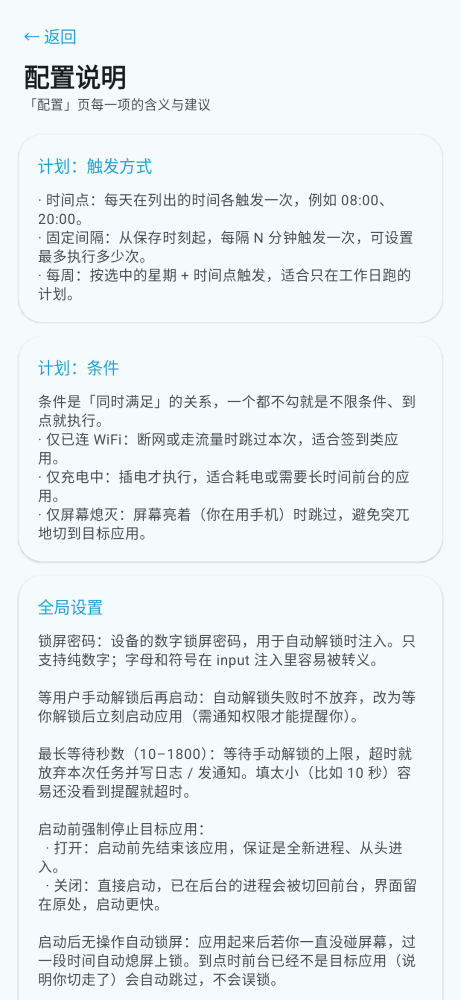
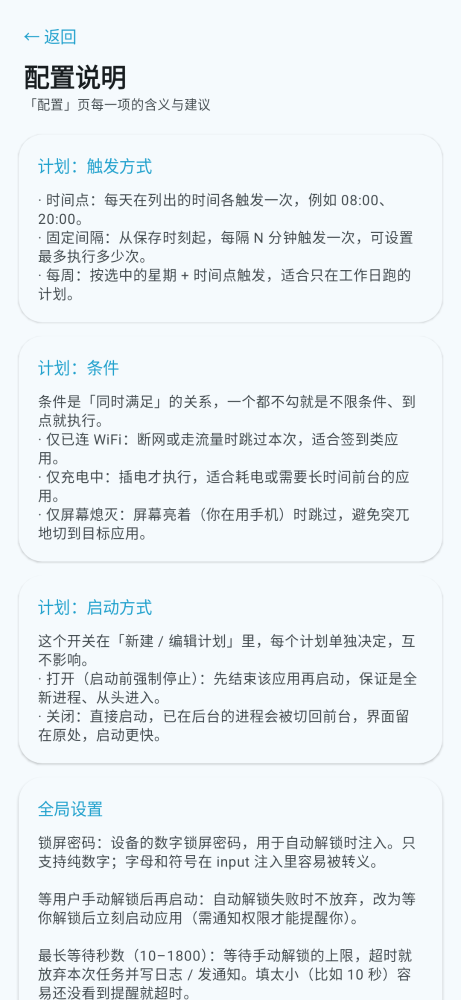
2.3.1: 启动方式下沉到每个计划（冷启动/直接启动按计划独立设置）

Changed region(s): [[0.0607, 0.589, 0.9111, 1.0]]

diff --git a/lsposed/app/src/main/java/com/appscheduler/lsposed/ui/HelpScreen.kt b/lsposed/app/src/main/java/com/appscheduler/lsposed/ui/HelpScreen.kt
@@ -35,8 +35,8 @@ enum class HelpPage(val title: String) {
 /** 关于页要展示的软件信息，由调用方填，方便截图测试注入固定值 */
 data class AboutInfo(
     val appName: String = "AppTimer",
-    val versionName: String = "2.3.0",
-    val versionCode: Long = 25,
+    val versionName: String = "2.3.1",
+    val versionCode: Long = 26,
     val packageName: String = "com.appscheduler.lsposed",
     val minSdk: Int = 26,
     val repoUrl: String = "https://github.com/alearners/magisk-app-scheduler",
@@ -197,14 +197,19 @@ private fun ConfigDocPage(onBack: () -> Unit, modifier: Modifier = Modifier) {
             )
         }
 
+        SectionCard("计划：启动方式") {
+            HelpParagraph(
+                "这个开关在「新建 / 编辑计划」里，每个计划单独决定，互不影响。\n" +
+                    "· 打开（启动前强制停止）：先结束该应用再启动，保证是全新进程、从头进入。\n" +
+                    "· 关闭：直接启动，已在后台的进程会被切回前台，界面留在原处，启动更快。"
+            )
+        }
+
         SectionCard("全局设置") {
             HelpParagraph(
                 "锁屏密码：设备的数字锁屏密码，用于自动解锁时注入。只支持纯数字；字母和符号在 input 注入里容易被转义。\n\n" +
                     "等用户手动解锁后再启动：自动解锁失败时不放弃，改为等你解锁后立刻启动应用（需通知权限才能提醒你）。\n\n" +
                     "最长等待秒数（10–1800）：等待手动解锁的上限，超时就放弃本次任务并写日志 / 发通知。填太小（比如 10 秒）容易还没看到提醒就超时。\n\n" +
-                    "启动前强制停止目标应用：\n" +
-                    "  · 打开：启动前先结束该应用，保证是全新进程、从头进入。\n" +
-                    "  · 关闭：直接启动，已在后台的进程会被切回前台，界面留在原处，启动更快。\n\n" +
                     "启动后无操作自动锁屏：应用起来后若你一直没碰屏幕，过一段时间自动熄屏上锁。到点时前台已经不是目标应用（说明你切走了）会自动跳过，不会误锁。\n\n" +
                     "无操作多少秒后锁屏（2–600）：上面的延时。太短来不及看清界面，建议 5–30 秒。\n\n" +
                     "用应用内部计时器计时：\n" +
@@ -263,8 +268,8 @@ private fun AboutPage(about: AboutInfo, onBack: () -> Unit, modifier: Modifier =
             HelpParagraph(
                 "按你设定的计划，在指定时间自动把设备唤到可用状态，然后启动指定的应用：\n" +
                     "· 唤醒屏幕、上滑、注入锁屏密码；密码方式失败时，可收起锁屏或等你手动解锁。\n" +
-                    "· 按你的设置启动：先强制停止再启动（冷启动，全新进程），或直接启动（切回已在后台的进程）。\n" +
-                    "· 支持多应用、多计划并发，每个计划可单独设置触发方式与条件。\n" +
+                    "· 每个计划自己决定启动方式：先强制停止再启动（冷启动，全新进程），或直接启动（切回已在后台的进程）。\n" +
+                    "· 支持多应用、多计划并发，每个计划可单独设置触发方式、条件与启动方式。\n" +
                     "· 可选：启动完成后若一直无操作，自动熄屏上锁，回到你原本的锁屏状态。\n\n" +
                     "收起锁屏由 LSPosed 钩子在 SystemUI 内完成，其余动作通过 root 执行。"
             )

diff --git a/lsposed/app/src/main/java/com/appscheduler/lsposed/ui/MainScreen.kt b/lsposed/app/src/main/java/com/appscheduler/lsposed/ui/MainScreen.kt
@@ -74,7 +74,6 @@ fun MainScreen() {
     var autoLock by remember { mutableStateOf(prefs.autoLock()) }
     var autoLockDelay by remember { mutableStateOf(prefs.autoLockDelay().toString()) }
     var timerMode by remember { mutableStateOf(prefs.timerMode()) }
-    var forceColdStart by remember { mutableStateOf(prefs.forceColdStart()) }
 
     var logTab by remember { mutableStateOf(LogTab.CURRENT) }
     var logCurrent by remember { mutableStateOf(LogStore.readCurrent(context)) }
@@ -117,7 +116,6 @@ fun MainScreen() {
         autoLock = prefs.autoLock()
         autoLockDelay = prefs.autoLockDelay().toString()
         timerMode = prefs.timerMode()
-        forceColdStart = prefs.forceColdStart()
     }
 
     // 进页面、切到日志/权限 tab 时刷新对应的实时内容
@@ -291,8 +289,7 @@ fun MainScreen() {
             manualWait.toIntOrNull() ?: Config.DEFAULT_MANUAL_WAIT,
             autoLock,
             autoLockDelay.toIntOrNull() ?: Config.DEFAULT_AUTO_LOCK_DELAY,
-            timerMode,
-            forceColdStart
+            timerMode
         )
         // 计时方式可能变了：切内部计时器要拉起常驻服务，切回闹钟要重排闹钟
         Scheduler.applyMode(context)
@@ -336,7 +333,9 @@ fun MainScreen() {
         if (runningId != null) return
         runningId = task.id
         scope.launch {
-            withContext(Dispatchers.IO) { RunCoordinator.runNow(context, task.packages) }
+            withContext(Dispatchers.IO) {
+                RunCoordinator.runNow(context, task.packages, task.forceColdStart)
+            }
             runningId = null
             reloadTasks()
             reloadLog()
@@ -461,8 +460,6 @@ fun MainScreen() {
                             onAutoLockDelayChange = { autoLockDelay = it },
                             timerMode = timerMode,
                             onTimerModeChange = { timerMode = it },
-                            forceColdStart = forceColdStart,
-                            onForceColdStartChange = { forceColdStart = it },
                             onSaveSettings = { saveSettings() },
                             onOpenLog = { tab = MainTab.LOG },
                             onOpenHelp = { tab = MainTab.HELP },

diff --git a/lsposed/app/src/main/java/com/appscheduler/lsposed/RunCoordinator.kt b/lsposed/app/src/main/java/com/appscheduler/lsposed/RunCoordinator.kt
@@ -114,7 +114,7 @@ object RunCoordinator {
             log.append("锁屏状态: false，直接启动\n")
         }
 
-        val ok = TaskRunner.launch(runnable, config.forceColdStart(), log)
+        val ok = TaskRunner.launch(runnable, task.forceColdStart, log)
         LogStore.append(context, log.toString())
         if (!ok) {
             TaskRunner.notifyFailure(context, log.toString())
@@ -168,7 +168,7 @@ object RunCoordinator {
                 applyResult(context, task, false)
                 continue
             }
-            val ok = TaskRunner.launch(runnable, Config.get(context).forceColdStart(), log)
+            val ok = TaskRunner.launch(runnable, task.forceColdStart, log)
             LogStore.append(context, log.toString())
             if (!ok) {
                 TaskRunner.notifyFailure(context, log.toString())
@@ -216,7 +216,7 @@ object RunCoordinator {
     }
 
     /** 界面上的「立即执行」：同步跑完并把结果写日志 */
-    fun runNow(context: Context, packages: List<String>): Boolean {
+    fun runNow(context: Context, packages: List<String>, forceColdStart: Boolean): Boolean {
         val log = StringBuilder()
         log.append("=== 手动执行 ${TaskRunner.stamp()} ===\n")
         if (!TaskRunner.suAvailable()) {
@@ -239,7 +239,7 @@ object RunCoordinator {
             TaskRunner.notifyFailure(context, log.toString())
             return false
         }
-        val ok = TaskRunner.launch(runnable, config.forceColdStart(), log)
+        val ok = TaskRunner.launch(runnable, forceColdStart, log)
         LogStore.append(context, log.toString())
         if (!ok) {
             TaskRunner.notifyFailure(context, log.toString())

diff --git a/lsposed/app/src/main/java/com/appscheduler/lsposed/model/TaskItem.kt b/lsposed/app/src/main/java/com/appscheduler/lsposed/model/TaskItem.kt
@@ -24,6 +24,8 @@ data class TaskItem(
     var onlyWifi: Boolean = false,
     var onlyScreenOff: Boolean = false,
     var enabled: Boolean = true,
+    /** 解锁后启动该计划里的应用时，是否先强制停止：true 冷启动，false 直接启动 / 切回已运行的进程 */
+    var forceColdStart: Boolean = true,
     var lastRunAt: Long = 0L,
     var lastResult: String = ""
 ) {
@@ -75,6 +77,7 @@ data class TaskItem(
         o.put("onlyWifi", onlyWifi)
         o.put("onlyScreenOff", onlyScreenOff)
         o.put("enabled", enabled)
+        o.put("forceColdStart", forceColdStart)
         o.put("lastRunAt", lastRunAt)
         o.put("lastResult", lastResult)
         return o
@@ -84,6 +87,9 @@ data class TaskItem(
         const val TYPE_TIMES = "TIMES"
         const val TYPE_WEEKLY = "WEEKLY"
         const val TYPE_INTERVAL = "INTERVAL"
+
+        /** 默认保持原有行为：先强制停止再启动，保证是冷启动 */
+        const val DEFAULT_FORCE_COLD_START = true
 
         fun weekdayName(day: Int): String = when (day) {
             1 -> "周一"
@@ -130,6 +136,8 @@ data class TaskItem(
             task.onlyWifi = o.optBoolean("onlyWifi", false)
             task.onlyScreenOff = o.optBoolean("onlyScreenOff", false)
             task.enabled = o.optBoolean("enabled", true)
+            // 旧配置没有这个字段：默认保持原有行为「先强制停止再启动」
+            task.forceColdStart = o.optBoolean("forceColdStart", DEFAULT_FORCE_COLD_START)
             task.lastRunAt = o.optLong("lastRunAt", 0L)
             task.lastResult = o.optString("lastResult", "")
             return task

diff --git a/lsposed/app/src/main/java/com/appscheduler/lsposed/ui/TaskListScreen.kt b/lsposed/app/src/main/java/com/appscheduler/lsposed/ui/TaskListScreen.kt
@@ -58,8 +58,6 @@ fun TaskListScreen(
     onAutoLockDelayChange: (String) -> Unit = {},
     timerMode: String = Config.TIMER_ALARM,
     onTimerModeChange: (String) -> Unit = {},
-    forceColdStart: Boolean = Config.DEFAULT_FORCE_COLD_START,
-    onForceColdStartChange: (Boolean) -> Unit = {},
     onSaveSettings: () -> Unit,
     onOpenLog: () -> Unit,
     onOpenHelp: () -> Unit = {},
@@ -162,19 +160,6 @@ fun TaskListScreen(
                     modifier = Modifier.fillMaxWidth()
                 )
             }
-
-            HorizontalDivider(color = MaterialTheme.colorScheme.outlineVariant)
-
-            SwitchRow(
-                title = "启动前强制停止目标应用",
-                description = if (forceColdStart) {
-                    "开启：先结束该应用再启动，保证是全新进程、从头进入"
-                } else {
-                    "关闭：直接启动，已在后台的进程会被切回前台，界面留在原处"
-                },
-                checked = forceColdStart,
-                onCheckedChange = onForceColdStartChange
-            )
 
             HorizontalDivider(color = MaterialTheme.colorScheme.outlineVariant)
 

diff --git a/lsposed/app/src/main/java/com/appscheduler/lsposed/ui/TaskEditScreen.kt b/lsposed/app/src/main/java/com/appscheduler/lsposed/ui/TaskEditScreen.kt
@@ -274,6 +274,20 @@ fun TaskEditScreen(
             )
         }
 
+        // ---- 启动方式：每个计划自己决定 ----
+        SectionCard("启动方式") {
+            SwitchRow(
+                title = "启动前强制停止目标应用",
+                description = if (task.forceColdStart) {
+                    "先结束该应用再启动，保证是全新进程、从头进入"
+                } else {
+                    "直接启动，已在后台的进程会被切回前台，界面留在原处"
+                },
+                checked = task.forceColdStart,
+                onCheckedChange = { onChange(task.copy(forceColdStart = it)) }
+            )
+        }
+
         Button(onClick = onSave, modifier = Modifier.fillMaxWidth()) {
             Text("保存计划")
         }

diff --git a/lsposed/app/src/main/java/com/appscheduler/lsposed/transfer/ConfigTransfer.kt b/lsposed/app/src/main/java/com/appscheduler/lsposed/transfer/ConfigTransfer.kt
@@ -54,7 +54,6 @@ object ConfigTransfer {
         global.put("autoLock", config.autoLock())
         global.put("autoLockDelay", config.autoLockDelay())
         global.put("timerMode", config.timerMode())
-        global.put("forceColdStart", config.forceColdStart())
         root.put("global", global)
 
         val tasks = JSONArray()
@@ -95,8 +94,7 @@ object ConfigTransfer {
                 g.optInt("manualWait", Config.DEFAULT_MANUAL_WAIT),
                 g.optBoolean("autoLock", false),
                 g.optInt("autoLockDelay", Config.DEFAULT_AUTO_LOCK_DELAY),
-                g.optString("timerMode", Config.TIMER_ALARM),
-                g.optBoolean("forceColdStart", Config.DEFAULT_FORCE_COLD_START)
+                g.optString("timerMode", Config.TIMER_ALARM)
             )
         }
 

diff --git a/lsposed/app/src/main/java/com/appscheduler/lsposed/Config.java b/lsposed/app/src/main/java/com/appscheduler/lsposed/Config.java
@@ -21,8 +21,6 @@ public class Config {
     public static final String KEY_AUTO_LOCK_DELAY = "auto_lock_delay";
     /** 调度触发的时间基准：系统闹钟（alarm）或应用内部计时器（internal） */
     public static final String KEY_TIMER_MODE = "timer_mode";
-    /** 解锁后启动目标应用的方式：true 先强制停止再启动（冷启动），false 直接启动 / 切回已运行的进程 */
-    public static final String KEY_FORCE_COLD_START = "force_cold_start";
 
     public static final String DEFAULT_PKG = "com.example.app";
     /** 不预置任何密码，必须在界面里填写；留空时跳过密码注入，只走上滑 + 兜底 */
@@ -36,9 +34,6 @@ public class Config {
     public static final String TIMER_ALARM = "alarm";
     public static final String TIMER_INTERNAL = "internal";
     public static final String DEFAULT_TIMER_MODE = TIMER_ALARM;
-
-    /** 默认保持原有行为：先强制停止再启动，保证是冷启动 */
-    public static final boolean DEFAULT_FORCE_COLD_START = true;
 
     private final SharedPreferences sp;
 
@@ -122,15 +117,6 @@ public class Config {
         return TIMER_INTERNAL.equals(timerMode());
     }
 
-    /**
-     * 解锁后启动目标应用时，是否先强制停止。
-     * true：先 am force-stop 再启动，保证是冷启动；
-     * false：直接启动 / 把已有的任务切回前台，保留原进程与界面状态。
-     */
-    public boolean forceColdStart() {
-        return sp.getBoolean(KEY_FORCE_COLD_START, DEFAULT_FORCE_COLD_START);
-    }
-
     public void save(String pkg, String password, String times, boolean enabled) {
         sp.edit()
                 .putString(KEY_PKG, pkg == null ? "" : pkg.trim())
@@ -166,8 +152,7 @@ public class Config {
     }
 
     public void saveGlobal(boolean enabled, String password, boolean manualFallback, int manualWait,
-                           boolean autoLock, int autoLockDelay, String timerMode,
-                           boolean forceColdStart) {
+                           boolean autoLock, int autoLockDelay, String timerMode) {
         sp.edit()
                 .putBoolean(KEY_ENABLED, enabled)
                 .putString(KEY_PASSWORD, password == null ? "" : password.trim())
@@ -176,7 +161,6 @@ public class Config {
                 .putBoolean(KEY_AUTO_LOCK, autoLock)
                 .putInt(KEY_AUTO_LOCK_DELAY, autoLockDelay)
                 .putString(KEY_TIMER_MODE, TIMER_INTERNAL.equals(timerMode) ? TIMER_INTERNAL : TIMER_ALARM)
-                .putBoolean(KEY_FORCE_COLD_START, forceColdStart)
                 .apply();
     }
 }

diff --git a/lsposed/README.md b/lsposed/README.md
@@ -17,7 +17,7 @@
 
 功能对齐的几项（两边都有）：多 App 顺序启动、解锁校验与兜底、无操作自动锁屏（可配秒数、切走不误锁）、计时基准二选一、失败通知与日志、**配置导出与导入**。
 
-启动方式由「配置 → 全局设置」里的「启动前强制停止目标应用」决定：打开时先 `am force-stop` 再启动（冷启动，全新进程）；关闭时不杀进程，直接 `am start` 把已在后台的应用切回前台，界面停在原处、启动更快。
+启动方式由**每个计划**里的「启动前强制停止目标应用」决定（新建 / 编辑计划时设置，各计划互不影响）：打开时先 `am force-stop` 再启动（冷启动，全新进程）；关闭时不杀进程，直接 `am start` 把已在后台的应用切回前台，界面停在原处、启动更快。
 
 ## 界面结构
 
@@ -25,7 +25,7 @@
 
 | Tab | 内容 |
 | --- | --- |
-| 配置 | 调度总开关、计划列表（新建 / 编辑 / 删除 / 立即执行）、全局设置（锁屏密码、手动解锁兜底、最长等待、启动前是否强制停止、自动锁屏与延时、计时方式）、系统权限提示 |
+| 配置 | 调度总开关、计划列表（新建 / 编辑 / 删除 / 立即执行）、全局设置（锁屏密码、手动解锁兜底、最长等待、自动锁屏与延时、计时方式）、系统权限提示 |
 | 日志 | 「当前日志 / 所有日志」两个视图，可分别刷新与清除 |
 | 权限 | 通知、精确闹钟、省电白名单、root、LSPosed 作用域、应用列表、厂商后台限制逐项体检，缺哪项就点哪项去申请 |
 | 帮助 | 使用步骤、**配置说明**（逐项解释每个开关）、**配置备份**（导出 / 导入）、常见问题，以及 **关于本软件**（版本、运行环境、开源协议、隐私与免责声明） |
@@ -60,12 +60,12 @@ JSON 结构（`schema=1`）：
   "app": "AppTimer",
   "schema": 1,
   "exportedAt": "2026-11-10T11:00:00",
-  "versionName": "2.3.0",
+  "versionName": "2.3.1",
   "global": {
     "enabled": true, "password": "……", "manualFallback": true, "manualWait": 120,
-    "autoLock": false, "autoLockDelay": 5, "timerMode": "alarm", "forceColdStart": true
+    "autoLock": false, "autoLockDelay": 5, "timerMode": "alarm"
   },
-  "tasks": [ { "name": "…", "packages": ["…"], "scheduleType": "INTERVAL", "intervalMinutes": 60, … } ]
+  "tasks": [ { "name": "…", "packages": ["…"], "scheduleType": "INTERVAL", "intervalMinutes": 60, "forceColdStart": true, … } ]
 }
 ```
 
@@ -79,7 +79,7 @@ JSON 结构（`schema=1`）：
 | --- | --- |
 | applicationId | `com.appscheduler.lsposed` |
 | 显示名 | `AppTimer` |
-| 版本 | `versionCode 25` / `versionName 2.3.0` |
+| 版本 | `versionCode 26` / `versionName 2.3.1` |
 | 最低支持 | Android 8.0（API 26） |
 | 目标 SDK | 34 |
 | 签名 | 仓库固定密钥（`CN=App Scheduler, O=alearners, C=CN`），证书 SHA-256 `10948BFB9…000B2E5` |
@@ -130,6 +130,6 @@ cd lsposed
 5. 同一轮里触发后立刻切到别的界面，确认日志出现「前台已是…，判定为用户已接管，跳过」，且屏幕没有被关掉；
 6. 进「帮助」页点「导出配置」存一份，删掉一个计划后再点「导入配置」，确认计划与全局设置都回到导出时的状态、日志里出现「导入配置：已导入 N 个计划」；
 7. 「日志」页切到「所有日志」确认能看到轮转前的历史，再分别点「清除当前日志」「清除所有日志」，确认对应视图变空、另一份不受影响。
-8. 在「全局设置」里关掉「启动前强制停止目标应用」，先把目标 App 打开再切走，等一轮触发，确认日志出现「不强制停止 …，直接启动」且 App 回到原来的界面；重新打开该开关，下一轮日志应是「已强制停止 …，准备冷启动」。
+8. 在新建计划的「启动方式」里关掉「启动前强制停止目标应用」，先把目标 App 打开再切走，点「立即执行」确认日志出现「不强制停止 …，直接启动」且 App 回到原来的界面；再编辑该计划把开关打开，下一次日志应是「已强制停止 …，准备冷启动」。
 
 任何一步不符合预期，先看日志再改参数；不要同时改多个设置。
